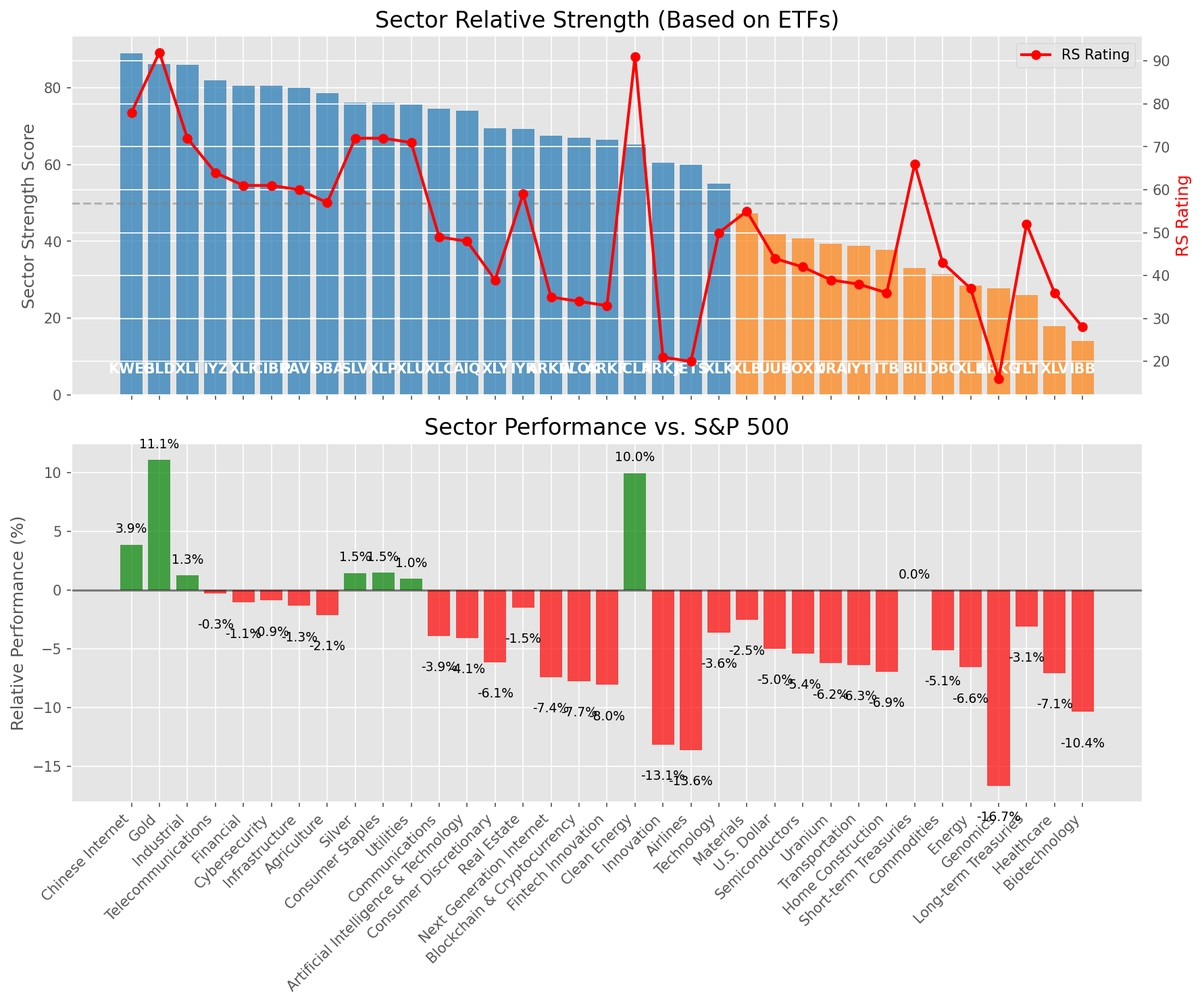
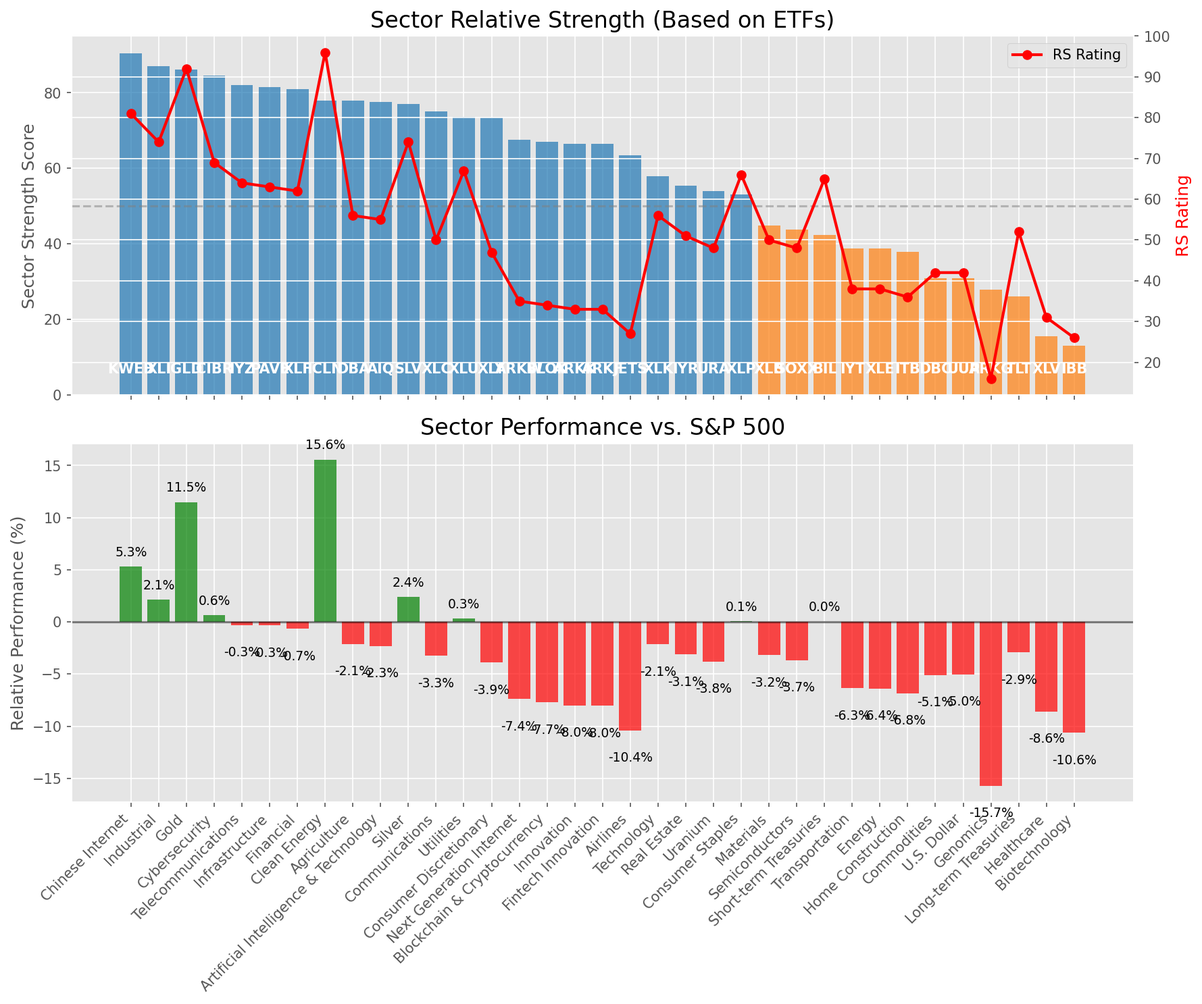
Add market report for 2025-05-13

diff --git a/oneil_relative_strength_report_2025-05-13.md b/oneil_relative_strength_report_2025-05-13.md
@@ -9,11 +9,11 @@
 | Metric | Value |
 |--------|-------|
 | **Market Valuation** | **Fair Valued** |
-| **Current Ratio** | 9.58 |
+| **Current Ratio** | 9.66 |
 | **Historical Mean** | 9.41 |
 | **Standard Deviation** | 0.51 |
-| **Z-Score (StdDev from Mean)** | -0.27 |
-| **Total Market Cap** | $287.27 trillion |
+| **Z-Score (StdDev from Mean)** | 0.34 |
+| **Total Market Cap** | $289.64 trillion |
 | **GDP** | $29.98 trillion |
 
 ## **Market Insights**
@@ -49,41 +49,41 @@ Based on William O'Neil's Relative Strength Methodology
 
 | ETF | Strength | RS Rating | Performance | Above Key MAs | Trend | Sector |
 |-----|----------|-----------|-------------|--------------|-------|--------|
-| [KWEB](https://www.tradingview.com/chart/?symbol=KWEB) | 89.0 | 78.0 | 3.89% | 10d ✓, 50d ✓, 200d ✓ | ↗ | Chinese Internet |
-| [GLD](https://www.tradingview.com/chart/?symbol=GLD) | 86.1 | 92.0 | 11.11% | 10d ✗, 50d ✓, 200d ✓ | ↗ | Gold |
-| [XLI](https://www.tradingview.com/chart/?symbol=XLI) | 86.0 | 72.0 | 1.26% | 10d ✓, 50d ✓, 200d ✓ | ↗ | Industrial |
+| [KWEB](https://www.tradingview.com/chart/?symbol=KWEB) | 90.5 | 81.0 | 5.30% | 10d ✓, 50d ✓, 200d ✓ | ↗ | Chinese Internet |
+| [XLI](https://www.tradingview.com/chart/?symbol=XLI) | 87.0 | 74.0 | 2.12% | 10d ✓, 50d ✓, 200d ✓ | ↗ | Industrial |
+| [GLD](https://www.tradingview.com/chart/?symbol=GLD) | 86.1 | 92.0 | 11.48% | 10d ✗, 50d ✓, 200d ✓ | ↗ | Gold |
+| [CIBR](https://www.tradingview.com/chart/?symbol=CIBR) | 84.5 | 69.0 | 0.63% | 10d ✓, 50d ✓, 200d ✓ | ↗ | Cybersecurity |
 | [IYZ](https://www.tradingview.com/chart/?symbol=IYZ) | 82.0 | 64.0 | -0.29% | 10d ✓, 50d ✓, 200d ✓ | ↗ | Telecommunications |
-| [XLF](https://www.tradingview.com/chart/?symbol=XLF) | 80.5 | 61.0 | -1.05% | 10d ✓, 50d ✓, 200d ✓ | ↗ | Financial |
-| [CIBR](https://www.tradingview.com/chart/?symbol=CIBR) | 80.5 | 61.0 | -0.86% | 10d ✓, 50d ✓, 200d ✓ | ↗ | Cybersecurity |
-| [PAVE](https://www.tradingview.com/chart/?symbol=PAVE) | 80.0 | 60.0 | -1.33% | 10d ✓, 50d ✓, 200d ✓ | ↗ | Infrastructure |
-| [DBA](https://www.tradingview.com/chart/?symbol=DBA) | 78.5 | 57.0 | -2.10% | 10d ✓, 50d ✓, 200d ✓ | ↗ | Agriculture |
-| [SLV](https://www.tradingview.com/chart/?symbol=SLV) | 76.1 | 72.0 | 1.47% | 10d ✓, 50d ✗, 200d ✓ | ↗ | Silver |
-| [XLP](https://www.tradingview.com/chart/?symbol=XLP) | 76.1 | 72.0 | 1.49% | 10d ✗, 50d ✓, 200d ✓ | ↗ | Consumer Staples |
-| [XLU](https://www.tradingview.com/chart/?symbol=XLU) | 75.6 | 71.0 | 0.97% | 10d ✗, 50d ✓, 200d ✓ | ↗ | Utilities |
-| [XLC](https://www.tradingview.com/chart/?symbol=XLC) | 74.5 | 49.0 | -3.88% | 10d ✓, 50d ✓, 200d ✓ | ↗ | Communications |
-| [AIQ](https://www.tradingview.com/chart/?symbol=AIQ) | 74.0 | 48.0 | -4.06% | 10d ✓, 50d ✓, 200d ✓ | ↗ | Artificial Intelligence & Technology |
-| [XLY](https://www.tradingview.com/chart/?symbol=XLY) | 69.5 | 39.0 | -6.13% | 10d ✓, 50d ✓, 200d ✓ | ↗ | Consumer Discretionary |
-| [IYR](https://www.tradingview.com/chart/?symbol=IYR) | 69.3 | 59.0 | -1.47% | 10d ✓, 50d ✓, 200d ✗ | ↗ | Real Estate |
+| [PAVE](https://www.tradingview.com/chart/?symbol=PAVE) | 81.5 | 63.0 | -0.33% | 10d ✓, 50d ✓, 200d ✓ | ↗ | Infrastructure |
+| [XLF](https://www.tradingview.com/chart/?symbol=XLF) | 81.0 | 62.0 | -0.67% | 10d ✓, 50d ✓, 200d ✓ | ↗ | Financial |
+| [ICLN](https://www.tradingview.com/chart/?symbol=ICLN) | 78.0 | 96.0 | 15.56% | 10d ✓, 50d ✓, 200d ✓ | ↘ | Clean Energy |
+| [DBA](https://www.tradingview.com/chart/?symbol=DBA) | 78.0 | 56.0 | -2.10% | 10d ✓, 50d ✓, 200d ✓ | ↗ | Agriculture |
+| [AIQ](https://www.tradingview.com/chart/?symbol=AIQ) | 77.5 | 55.0 | -2.29% | 10d ✓, 50d ✓, 200d ✓ | ↗ | Artificial Intelligence & Technology |
+| [SLV](https://www.tradingview.com/chart/?symbol=SLV) | 77.1 | 74.0 | 2.39% | 10d ✓, 50d ✗, 200d ✓ | ↗ | Silver |
+| [XLC](https://www.tradingview.com/chart/?symbol=XLC) | 75.0 | 50.0 | -3.26% | 10d ✓, 50d ✓, 200d ✓ | ↗ | Communications |
+| [XLU](https://www.tradingview.com/chart/?symbol=XLU) | 73.6 | 67.0 | 0.33% | 10d ✗, 50d ✓, 200d ✓ | ↗ | Utilities |
+| [XLY](https://www.tradingview.com/chart/?symbol=XLY) | 73.5 | 47.0 | -3.90% | 10d ✓, 50d ✓, 200d ✓ | ↗ | Consumer Discretionary |
 | [ARKW](https://www.tradingview.com/chart/?symbol=ARKW) | 67.5 | 35.0 | -7.39% | 10d ✓, 50d ✓, 200d ✓ | ↗ | Next Generation Internet |
 | [BLOK](https://www.tradingview.com/chart/?symbol=BLOK) | 67.0 | 34.0 | -7.72% | 10d ✓, 50d ✓, 200d ✓ | ↗ | Blockchain & Cryptocurrency |
+| [ARKK](https://www.tradingview.com/chart/?symbol=ARKK) | 66.5 | 33.0 | -8.00% | 10d ✓, 50d ✓, 200d ✓ | ↗ | Innovation |
 | [ARKF](https://www.tradingview.com/chart/?symbol=ARKF) | 66.5 | 33.0 | -8.05% | 10d ✓, 50d ✓, 200d ✓ | ↗ | Fintech Innovation |
-| [ICLN](https://www.tradingview.com/chart/?symbol=ICLN) | 65.3 | 91.0 | 9.97% | 10d ✓, 50d ✓, 200d ✗ | ↘ | Clean Energy |
-| [ARKK](https://www.tradingview.com/chart/?symbol=ARKK) | 60.5 | 21.0 | -13.14% | 10d ✓, 50d ✓, 200d ✓ | ↗ | Innovation |
-| [JETS](https://www.tradingview.com/chart/?symbol=JETS) | 60.0 | 20.0 | -13.60% | 10d ✓, 50d ✓, 200d ✓ | ↗ | Airlines |
-| [XLK](https://www.tradingview.com/chart/?symbol=XLK) | 55.0 | 50.0 | -3.61% | 10d ✓, 50d ✓, 200d ✓ | ↘ | Technology |
-| [XLB](https://www.tradingview.com/chart/?symbol=XLB) | 47.3 | 55.0 | -2.50% | 10d ✓, 50d ✓, 200d ✗ | ↘ | Materials |
-| [UUP](https://www.tradingview.com/chart/?symbol=UUP) | 41.8 | 44.0 | -4.98% | 10d ✓, 50d ✓, 200d ✗ | ↘ | U.S. Dollar |
-| [SOXX](https://www.tradingview.com/chart/?symbol=SOXX) | 40.8 | 42.0 | -5.38% | 10d ✓, 50d ✓, 200d ✗ | ↘ | Semiconductors |
-| [URA](https://www.tradingview.com/chart/?symbol=URA) | 39.3 | 39.0 | -6.22% | 10d ✓, 50d ✓, 200d ✗ | ↘ | Uranium |
+| [JETS](https://www.tradingview.com/chart/?symbol=JETS) | 63.5 | 27.0 | -10.41% | 10d ✓, 50d ✓, 200d ✓ | ↗ | Airlines |
+| [XLK](https://www.tradingview.com/chart/?symbol=XLK) | 58.0 | 56.0 | -2.14% | 10d ✓, 50d ✓, 200d ✓ | ↘ | Technology |
+| [IYR](https://www.tradingview.com/chart/?symbol=IYR) | 55.4 | 51.0 | -3.13% | 10d ✗, 50d ✓, 200d ✗ | ↗ | Real Estate |
+| [URA](https://www.tradingview.com/chart/?symbol=URA) | 54.0 | 48.0 | -3.79% | 10d ✓, 50d ✓, 200d ✓ | ↘ | Uranium |
+| [XLP](https://www.tradingview.com/chart/?symbol=XLP) | 53.0 | 66.0 | 0.06% | 10d ✗, 50d ✗, 200d ✗ | ↗ | Consumer Staples |
+| [XLB](https://www.tradingview.com/chart/?symbol=XLB) | 44.8 | 50.0 | -3.20% | 10d ✓, 50d ✓, 200d ✗ | ↘ | Materials |
+| [SOXX](https://www.tradingview.com/chart/?symbol=SOXX) | 43.8 | 48.0 | -3.66% | 10d ✓, 50d ✓, 200d ✗ | ↘ | Semiconductors |
+| [BIL](https://www.tradingview.com/chart/?symbol=BIL) | 42.4 | 65.0 | 0.02% | 10d ✓, 50d ✗, 200d ✗ | ↘ | Short-term Treasuries |
 | [IYT](https://www.tradingview.com/chart/?symbol=IYT) | 38.8 | 38.0 | -6.35% | 10d ✓, 50d ✓, 200d ✗ | ↘ | Transportation |
-| [ITB](https://www.tradingview.com/chart/?symbol=ITB) | 37.8 | 36.0 | -6.93% | 10d ✓, 50d ✓, 200d ✗ | ↘ | Home Construction |
-| [BIL](https://www.tradingview.com/chart/?symbol=BIL) | 33.0 | 66.0 | 0.02% | 10d ✗, 50d ✗, 200d ✗ | ↘ | Short-term Treasuries |
-| [DBC](https://www.tradingview.com/chart/?symbol=DBC) | 31.4 | 43.0 | -5.09% | 10d ✓, 50d ✗, 200d ✗ | ↘ | Commodities |
-| [XLE](https://www.tradingview.com/chart/?symbol=XLE) | 28.4 | 37.0 | -6.55% | 10d ✓, 50d ✗, 200d ✗ | ↘ | Energy |
-| [ARKG](https://www.tradingview.com/chart/?symbol=ARKG) | 27.8 | 16.0 | -16.65% | 10d ✓, 50d ✓, 200d ✗ | ↘ | Genomics |
-| [TLT](https://www.tradingview.com/chart/?symbol=TLT) | 26.0 | 52.0 | -3.10% | 10d ✗, 50d ✗, 200d ✗ | ↘ | Long-term Treasuries |
-| [XLV](https://www.tradingview.com/chart/?symbol=XLV) | 18.0 | 36.0 | -7.07% | 10d ✗, 50d ✗, 200d ✗ | ↘ | Healthcare |
-| [IBB](https://www.tradingview.com/chart/?symbol=IBB) | 14.0 | 28.0 | -10.36% | 10d ✗, 50d ✗, 200d ✗ | ↘ | Biotechnology |
+| [XLE](https://www.tradingview.com/chart/?symbol=XLE) | 38.8 | 38.0 | -6.38% | 10d ✓, 50d ✓, 200d ✗ | ↘ | Energy |
+| [ITB](https://www.tradingview.com/chart/?symbol=ITB) | 37.8 | 36.0 | -6.85% | 10d ✓, 50d ✓, 200d ✗ | ↘ | Home Construction |
+| [DBC](https://www.tradingview.com/chart/?symbol=DBC) | 30.9 | 42.0 | -5.09% | 10d ✓, 50d ✗, 200d ✗ | ↘ | Commodities |
+| [UUP](https://www.tradingview.com/chart/?symbol=UUP) | 30.9 | 42.0 | -5.03% | 10d ✓, 50d ✗, 200d ✗ | ↘ | U.S. Dollar |
+| [ARKG](https://www.tradingview.com/chart/?symbol=ARKG) | 27.8 | 16.0 | -15.73% | 10d ✓, 50d ✓, 200d ✗ | ↘ | Genomics |
+| [TLT](https://www.tradingview.com/chart/?symbol=TLT) | 26.0 | 52.0 | -2.93% | 10d ✗, 50d ✗, 200d ✗ | ↘ | Long-term Treasuries |
+| [XLV](https://www.tradingview.com/chart/?symbol=XLV) | 15.5 | 31.0 | -8.61% | 10d ✗, 50d ✗, 200d ✗ | ↘ | Healthcare |
+| [IBB](https://www.tradingview.com/chart/?symbol=IBB) | 13.0 | 26.0 | -10.64% | 10d ✗, 50d ✗, 200d ✗ | ↘ | Biotechnology |
 
 ### **Sector ETF Performance Interpretation**
 
@@ -98,152 +98,174 @@ This table shows the relative strength metrics for different market sectors base
 
 ### **Current Sector Leadership**
 
-The current market leadership is coming from the following sectors: **Chinese Internet, Gold, Industrial**.
+The current market leadership is coming from the following sectors: **Chinese Internet, Industrial, Gold**.
 
-The **Chinese Internet** sector (represented by **KWEB**) is showing particularly strong relative strength with an RS rating of 78.0 and performance of 3.89% vs. the S&P 500. This sector is trading above its 10-day, 50-day, 200-day moving average(s). Investors should consider focusing on high RS stocks within these leading sectors for potential outperformance.
+The **Chinese Internet** sector (represented by **KWEB**) is showing particularly strong relative strength with an RS rating of 81.0 and performance of 5.30% vs. the S&P 500. This sector is trading above its 10-day, 50-day, 200-day moving average(s). Investors should consider focusing on high RS stocks within these leading sectors for potential outperformance.
 
 ---
 
 ## **Buy Recommendations**
 
-The following 65 stocks show exceptional relative strength:
+The following 70 stocks show exceptional relative strength:
 
 | RS Rating | Buy Score | Current Price | Chart | Name | Ticker |
 |-----------|-----------|---------------|-------|------|--------|
-| 100 | 100 | $27.49 | [Chart](https://www.tradingview.com/chart/?symbol=DB) | Deutsche Bank Aktiengesellschaft | DB |
-| 100 | 100 | $155.30 | [Chart](https://www.tradingview.com/chart/?symbol=PLMR) | Palomar Holdings, Inc. Common stock | PLMR |
-| 100 | 100 | $19.60 | [Chart](https://www.tradingview.com/chart/?symbol=SPNT) | SiriusPoint Ltd. | SPNT |
-| 100 | 100 | $86.50 | [Chart](https://www.tradingview.com/chart/?symbol=SEZL) | Sezzle Inc. Common Stock | SEZL |
 | 100 | 100 | $171.92 | [Chart](https://www.tradingview.com/chart/?symbol=DAVE) | Dave Inc. Class A Common Stock | DAVE |
-| 100 | 100 | $23.99 | [Chart](https://www.tradingview.com/chart/?symbol=GRND) | Grindr Inc. | GRND |
-| 99 | 100 | $22.82 | [Chart](https://www.tradingview.com/chart/?symbol=CRK) | Comstock Resources, Inc. | CRK |
+| 100 | 100 | $19.60 | [Chart](https://www.tradingview.com/chart/?symbol=SPNT) | SiriusPoint Ltd. | SPNT |
+| 100 | 100 | $27.61 | [Chart](https://www.tradingview.com/chart/?symbol=DB) | Deutsche Bank Aktiengesellschaft | DB |
+| 100 | 100 | $155.30 | [Chart](https://www.tradingview.com/chart/?symbol=PLMR) | Palomar Holdings, Inc. Common stock | PLMR |
+| 100 | 100 | $88.82 | [Chart](https://www.tradingview.com/chart/?symbol=SEZL) | Sezzle Inc. Common Stock | SEZL |
+| 99 | 100 | $23.58 | [Chart](https://www.tradingview.com/chart/?symbol=CRK) | Comstock Resources, Inc. | CRK |
 | 99 | 100 | $47.42 | [Chart](https://www.tradingview.com/chart/?symbol=MRX) | Marex Group plc Ordinary Shares | MRX |
 | 99 | 100 | $152.05 | [Chart](https://www.tradingview.com/chart/?symbol=ROOT) | Root, Inc. Class A Common Stock | ROOT |
-| 99 | 100 | $517.83 | [Chart](https://www.tradingview.com/chart/?symbol=DUOL) | Duolingo, Inc. Class A Common Stock | DUOL |
+| 99 | 100 | $34.53 | [Chart](https://www.tradingview.com/chart/?symbol=AHR) | American Healthcare REIT, Inc. | AHR |
+| 99 | 100 | $405.26 | [Chart](https://www.tradingview.com/chart/?symbol=MSTR) | MicroStrategy Inc | MSTR |
 | 99 | 100 | $70.35 | [Chart](https://www.tradingview.com/chart/?symbol=ULS) | UL Solutions Inc. | ULS |
+| 99 | 100 | $24.14 | [Chart](https://www.tradingview.com/chart/?symbol=GRND) | Grindr Inc. | GRND |
+| 98 | 100 | $158.26 | [Chart](https://www.tradingview.com/chart/?symbol=HWM) | Howmet Aerospace Inc. | HWM |
+| 98 | 100 | $41.09 | [Chart](https://www.tradingview.com/chart/?symbol=DRS) | Leonardo DRS, Inc. Common Stock | DRS |
 | 98 | 100 | $131.89 | [Chart](https://www.tradingview.com/chart/?symbol=ATGE) | Adtalem Global Education Inc. Common Shares | ATGE |
-| 98 | 100 | $156.96 | [Chart](https://www.tradingview.com/chart/?symbol=HWM) | Howmet Aerospace Inc. | HWM |
-| 98 | 100 | $34.75 | [Chart](https://www.tradingview.com/chart/?symbol=AHR) | American Healthcare REIT, Inc. | AHR |
-| 98 | 100 | $404.90 | [Chart](https://www.tradingview.com/chart/?symbol=MSTR) | MicroStrategy Inc | MSTR |
 | 98 | 100 | $131.44 | [Chart](https://www.tradingview.com/chart/?symbol=VSEC) | VSE Corp | VSEC |
+| 97 | 100 | $220.80 | [Chart](https://www.tradingview.com/chart/?symbol=CRS) | Carpenter Technology Corp | CRS |
 | 97 | 100 | $116.93 | [Chart](https://www.tradingview.com/chart/?symbol=EHC) | Encompass Health Corporation Common Stock | EHC |
 | 97 | 100 | $38.20 | [Chart](https://www.tradingview.com/chart/?symbol=PAY) | Paymentus Holdings, Inc. | PAY |
-| 97 | 100 | $40.84 | [Chart](https://www.tradingview.com/chart/?symbol=DRS) | Leonardo DRS, Inc. Common Stock | DRS |
-| 97 | 100 | $30.74 | [Chart](https://www.tradingview.com/chart/?symbol=EUFN) | iShares MSCI Europe Financials ETF | EUFN |
-| 97 | 100 | $148.62 | [Chart](https://www.tradingview.com/chart/?symbol=CAH) | Cardinal Health, Inc. | CAH |
-| 97 | 100 | $34.14 | [Chart](https://www.tradingview.com/chart/?symbol=UTI) | Universal Technical Institute, Inc. | UTI |
-| 96 | 100 | $40.38 | [Chart](https://www.tradingview.com/chart/?symbol=EWG) | iShares MSCI Germany ETF | EWG |
+| 97 | 100 | $30.75 | [Chart](https://www.tradingview.com/chart/?symbol=EUFN) | iShares MSCI Europe Financials ETF | EUFN |
+| 97 | 100 | $72.55 | [Chart](https://www.tradingview.com/chart/?symbol=WRB) | W.R. Berkley Corporation | WRB |
 | 96 | 100 | $28.11 | [Chart](https://www.tradingview.com/chart/?symbol=FMS) | Fresenius Medical Care AG | FMS |
-| 95 | 100 | $216.71 | [Chart](https://www.tradingview.com/chart/?symbol=CRS) | Carpenter Technology Corp | CRS |
-| 95 | 100 | $22.51 | [Chart](https://www.tradingview.com/chart/?symbol=LAUR) | Laureate Education, Inc. Common Stock | LAUR |
-| 95 | 100 | $297.55 | [Chart](https://www.tradingview.com/chart/?symbol=PEN) | Penumbra, Inc. | PEN |
-| 95 | 100 | $33.31 | [Chart](https://www.tradingview.com/chart/?symbol=SLM) | SLM Corporation | SLM |
-| 95 | 100 | $61.79 | [Chart](https://www.tradingview.com/chart/?symbol=CHEF) | The Chef's Warehouse Inc | CHEF |
-| 95 | 100 | $40.87 | [Chart](https://www.tradingview.com/chart/?symbol=AB) | AllianceBernstein Holding, L.P. | AB |
+| 96 | 100 | $150.87 | [Chart](https://www.tradingview.com/chart/?symbol=SE) | Sea Limited American Depositary Shares, each representing one Class A Ordinary Share | SE |
+| 96 | 100 | $33.65 | [Chart](https://www.tradingview.com/chart/?symbol=SLM) | SLM Corporation | SLM |
+| 96 | 100 | $148.96 | [Chart](https://www.tradingview.com/chart/?symbol=CAH) | Cardinal Health, Inc. | CAH |
+| 95 | 100 | $61.16 | [Chart](https://www.tradingview.com/chart/?symbol=HOOD) | Robinhood Markets, Inc. Class A Common Stock | HOOD |
+| 95 | 100 | $87.89 | [Chart](https://www.tradingview.com/chart/?symbol=TGLS) | Tecnoglass Inc. | TGLS |
+| 95 | 100 | $75.62 | [Chart](https://www.tradingview.com/chart/?symbol=RBLX) | Roblox Corporation | RBLX |
+| 95 | 100 | $40.48 | [Chart](https://www.tradingview.com/chart/?symbol=EWG) | iShares MSCI Germany ETF | EWG |
 | 95 | 100 | $48.05 | [Chart](https://www.tradingview.com/chart/?symbol=ERJ) | Embraer S.A. | ERJ |
-| 95 | 100 | $142.45 | [Chart](https://www.tradingview.com/chart/?symbol=SE) | Sea Limited American Depositary Shares, each representing one Class A Ordinary Share | SE |
-| 94 | 100 | $18.19 | [Chart](https://www.tradingview.com/chart/?symbol=AM) | Antero Midstream Corporation Common Stock | AM |
-| 94 | 100 | $73.49 | [Chart](https://www.tradingview.com/chart/?symbol=RBLX) | Roblox Corporation | RBLX |
-| 93 | 100 | $16.70 | [Chart](https://www.tradingview.com/chart/?symbol=BCS) | Barclays PLC | BCS |
+| 94 | 100 | $40.87 | [Chart](https://www.tradingview.com/chart/?symbol=AB) | AllianceBernstein Holding, L.P. | AB |
+| 94 | 100 | $61.79 | [Chart](https://www.tradingview.com/chart/?symbol=CHEF) | The Chef's Warehouse Inc | CHEF |
+| 94 | 100 | $297.55 | [Chart](https://www.tradingview.com/chart/?symbol=PEN) | Penumbra, Inc. | PEN |
+| 94 | 100 | $82.23 | [Chart](https://www.tradingview.com/chart/?symbol=RBRK) | Rubrik, Inc. | RBRK |
+| 94 | 100 | $22.51 | [Chart](https://www.tradingview.com/chart/?symbol=LAUR) | Laureate Education, Inc. Common Stock | LAUR |
+| 93 | 100 | $45.07 | [Chart](https://www.tradingview.com/chart/?symbol=TOST) | Toast, Inc. | TOST |
 | 93 | 100 | $53.18 | [Chart](https://www.tradingview.com/chart/?symbol=EPR) | EPR Properties | EPR |
+| 93 | 100 | $319.28 | [Chart](https://www.tradingview.com/chart/?symbol=PODD) | Insulet Corporation | PODD |
 | 93 | 100 | $119.20 | [Chart](https://www.tradingview.com/chart/?symbol=COOP) | Mr. Cooper Group Inc. Common Stock | COOP |
-| 93 | 100 | $104.17 | [Chart](https://www.tradingview.com/chart/?symbol=RBA) | RB Global, Inc. | RBA |
-| 92 | 100 | $86.76 | [Chart](https://www.tradingview.com/chart/?symbol=TGLS) | Tecnoglass Inc. | TGLS |
-| 92 | 100 | $316.67 | [Chart](https://www.tradingview.com/chart/?symbol=PODD) | Insulet Corporation | PODD |
+| 92 | 100 | $104.17 | [Chart](https://www.tradingview.com/chart/?symbol=RBA) | RB Global, Inc. | RBA |
+| 91 | 100 | $16.88 | [Chart](https://www.tradingview.com/chart/?symbol=BCS) | Barclays PLC | BCS |
 | 90 | 100 | $100.54 | [Chart](https://www.tradingview.com/chart/?symbol=AXS) | Axis Capital Holders Limited | AXS |
-| 89 | 100 | $25.12 | [Chart](https://www.tradingview.com/chart/?symbol=EWS) | iShares MSCI Singapore ETF | EWS |
+| 90 | 100 | $23.37 | [Chart](https://www.tradingview.com/chart/?symbol=SRAD) | Sportradar Group AG Class A Ordinary Shares | SRAD |
+| 89 | 100 | $123.15 | [Chart](https://www.tradingview.com/chart/?symbol=PLTR) | Palantir Technologies Inc. Class A Common Stock | PLTR |
 | 89 | 100 | $94.85 | [Chart](https://www.tradingview.com/chart/?symbol=HEES) | H&E Equipment Services, Inc. | HEES |
-| 89 | 100 | $67.96 | [Chart](https://www.tradingview.com/chart/?symbol=CTVA) | Corteva, Inc. Common Stock | CTVA |
+| 88 | 100 | $25.01 | [Chart](https://www.tradingview.com/chart/?symbol=EWS) | iShares MSCI Singapore ETF | EWS |
 | 88 | 100 | $195.73 | [Chart](https://www.tradingview.com/chart/?symbol=LOPE) | Grand Canyon Education, Inc | LOPE |
 | 89 | 99 | $31.08 | [Chart](https://www.tradingview.com/chart/?symbol=PRDO) | Perdoceo Education Corporation | PRDO |
-| 87 | 99 | $58.24 | [Chart](https://www.tradingview.com/chart/?symbol=HSBC) | HSBC Holdings PLC | HSBC |
-| 87 | 97 | $13.30 | [Chart](https://www.tradingview.com/chart/?symbol=CNH) | CNH INDUSTRIAL N.V. | CNH |
-| 86 | 96 | $36.04 | [Chart](https://www.tradingview.com/chart/?symbol=FXI) | iShares China Large-Cap ETF | FXI |
+| 88 | 98 | $69.66 | [Chart](https://www.tradingview.com/chart/?symbol=BROS) | Dutch Bros Inc. | BROS |
+| 87 | 98 | $68.12 | [Chart](https://www.tradingview.com/chart/?symbol=CTVA) | Corteva, Inc. Common Stock | CTVA |
+| 86 | 98 | $208.37 | [Chart](https://www.tradingview.com/chart/?symbol=DRI) | Darden Restaurants, Inc. | DRI |
+| 87 | 97 | $13.25 | [Chart](https://www.tradingview.com/chart/?symbol=CNH) | CNH INDUSTRIAL N.V. | CNH |
+| 86 | 97 | $291.34 | [Chart](https://www.tradingview.com/chart/?symbol=CVNA) | Carvana Co. | CVNA |
+| 85 | 97 | $58.48 | [Chart](https://www.tradingview.com/chart/?symbol=HSBC) | HSBC Holdings PLC | HSBC |
+| 87 | 96 | $58.48 | [Chart](https://www.tradingview.com/chart/?symbol=IBIT) | iShares Bitcoin Trust ETF | IBIT |
+| 85 | 96 | $74.41 | [Chart](https://www.tradingview.com/chart/?symbol=USFD) | US Foods Holding Corp. | USFD |
 | 85 | 96 | $203.25 | [Chart](https://www.tradingview.com/chart/?symbol=BAP) | Credicorp LTD | BAP |
+| 84 | 96 | $712.28 | [Chart](https://www.tradingview.com/chart/?symbol=AXON) | Axon Enterprise, Inc. Common Stock | AXON |
+| 85 | 95 | $35.66 | [Chart](https://www.tradingview.com/chart/?symbol=FXI) | iShares China Large-Cap ETF | FXI |
 | 84 | 95 | $29.67 | [Chart](https://www.tradingview.com/chart/?symbol=ATAT) | Atour Lifestyle Holdings Limited American Depositary Shares | ATAT |
-| 81 | 94 | $45.45 | [Chart](https://www.tradingview.com/chart/?symbol=QFIN) | Qifu Technology, Inc. American Depositary Shares | QFIN |
+| 84 | 95 | $222.65 | [Chart](https://www.tradingview.com/chart/?symbol=GE) | GE Aerospace | GE |
 | 81 | 94 | $217.54 | [Chart](https://www.tradingview.com/chart/?symbol=IDCC) | InterDigital, Inc. | IDCC |
-| 84 | 93 | $95.28 | [Chart](https://www.tradingview.com/chart/?symbol=JCI) | Johnson Controls International plc | JCI |
-| 82 | 93 | $165.64 | [Chart](https://www.tradingview.com/chart/?symbol=ITA) | iShares U.S. Aerospace & Defense ETF | ITA |
+| 82 | 93 | $31.08 | [Chart](https://www.tradingview.com/chart/?symbol=AS) | Amer Sports, Inc. | AS |
+| 82 | 92 | $62.00 | [Chart](https://www.tradingview.com/chart/?symbol=GGAL) | Grupo Financiero Galicia SA | GGAL |
+| 81 | 92 | $165.64 | [Chart](https://www.tradingview.com/chart/?symbol=ITA) | iShares U.S. Aerospace & Defense ETF | ITA |
 | 81 | 92 | $25.06 | [Chart](https://www.tradingview.com/chart/?symbol=PRVA) | Privia Health Group, Inc. Common Stock | PRVA |
-| 80 | 92 | $82.66 | [Chart](https://www.tradingview.com/chart/?symbol=TPR) | Tapestry, Inc. Common Stock | TPR |
-| 81 | 91 | $69.86 | [Chart](https://www.tradingview.com/chart/?symbol=BROS) | Dutch Bros Inc. | BROS |
-| 80 | 91 | $73.54 | [Chart](https://www.tradingview.com/chart/?symbol=USFD) | US Foods Holding Corp. | USFD |
-| 80 | 91 | $279.62 | [Chart](https://www.tradingview.com/chart/?symbol=CVNA) | Carvana Co. | CVNA |
-| 81 | 90 | $28.95 | [Chart](https://www.tradingview.com/chart/?symbol=TGS) | Transportadora de Gas del Sur S.A. ADS | TGS |
-| 80 | 90 | $12.94 | [Chart](https://www.tradingview.com/chart/?symbol=MUFG) | Mitsubishi UFJ Financial Group, Inc. | MUFG |
-| 80 | 90 | $83.08 | [Chart](https://www.tradingview.com/chart/?symbol=CASH) | Pathward Financial, Inc. Common Stock | CASH |
-| 80 | 89 | $57.88 | [Chart](https://www.tradingview.com/chart/?symbol=IBIT) | iShares Bitcoin Trust ETF | IBIT |
+| 81 | 91 | $13.04 | [Chart](https://www.tradingview.com/chart/?symbol=MUFG) | Mitsubishi UFJ Financial Group, Inc. | MUFG |
+| 80 | 91 | $203.86 | [Chart](https://www.tradingview.com/chart/?symbol=DFS) | Discover Financial Services | DFS |
 | 80 | 89 | $28.82 | [Chart](https://www.tradingview.com/chart/?symbol=HODL) | VanEck Bitcoin ETF | HODL |
+| 80 | 89 | $28.95 | [Chart](https://www.tradingview.com/chart/?symbol=TGS) | Transportadora de Gas del Sur S.A. ADS | TGS |
 
 ---
 
 
 ## **Sell Recommendations**
 
-The following 59 stocks show deteriorating relative strength:
+The following 76 stocks show deteriorating relative strength:
 
 | RS Rating | Sell Score | Current Price | Chart | Name | Ticker |
 |-----------|------------|---------------|-------|------|--------|
 | 1 | 100 | $10.18 | [Chart](https://www.tradingview.com/chart/?symbol=NRIX) | Nurix Therapeutics, Inc. Common stock | NRIX |
-| 1 | 100 | $20.56 | [Chart](https://www.tradingview.com/chart/?symbol=BHVN) | Biohaven Ltd. | BHVN |
-| 2 | 100 | $14.01 | [Chart](https://www.tradingview.com/chart/?symbol=DQ) | Daqo New Energy Corp. American Depositary Shares (each representing 5 Ordinary Shares) | DQ |
+| 1 | 100 | $19.72 | [Chart](https://www.tradingview.com/chart/?symbol=BHVN) | Biohaven Ltd. | BHVN |
+| 3 | 100 | $10.49 | [Chart](https://www.tradingview.com/chart/?symbol=LSPD) | Lightspeed Commerce Inc. | LSPD |
 | 3 | 100 | $29.56 | [Chart](https://www.tradingview.com/chart/?symbol=CRTO) | Criteo S.A. | CRTO |
 | 3 | 100 | $13.07 | [Chart](https://www.tradingview.com/chart/?symbol=MNRO) | Monro, Inc. Common Stock | MNRO |
-| 3 | 100 | $10.49 | [Chart](https://www.tradingview.com/chart/?symbol=LSPD) | Lightspeed Commerce Inc. | LSPD |
-| 4 | 100 | $11.59 | [Chart](https://www.tradingview.com/chart/?symbol=ARCT) | Arcturus Therapeutics Holdings Inc. Common Stock | ARCT |
+| 4 | 100 | $31.94 | [Chart](https://www.tradingview.com/chart/?symbol=TWST) | Twist Bioscience Corporation Common Stock | TWST |
+| 4 | 100 | $13.46 | [Chart](https://www.tradingview.com/chart/?symbol=FL) | Foot Locker, Inc. | FL |
+| 5 | 100 | $33.70 | [Chart](https://www.tradingview.com/chart/?symbol=AAP) | ADVANCE AUTO PARTS INC | AAP |
+| 5 | 100 | $12.63 | [Chart](https://www.tradingview.com/chart/?symbol=LBRT) | Liberty Energy Inc. | LBRT |
 | 5 | 100 | $28.01 | [Chart](https://www.tradingview.com/chart/?symbol=SRDX) | Surmodics, Inc. Common Stock | SRDX |
-| 5 | 100 | $13.28 | [Chart](https://www.tradingview.com/chart/?symbol=FL) | Foot Locker, Inc. | FL |
-| 6 | 100 | $15.97 | [Chart](https://www.tradingview.com/chart/?symbol=PENN) | PENN Entertainment, Inc. Common Stock | PENN |
-| 7 | 100 | $33.38 | [Chart](https://www.tradingview.com/chart/?symbol=AAP) | ADVANCE AUTO PARTS INC | AAP |
-| 8 | 100 | $129.24 | [Chart](https://www.tradingview.com/chart/?symbol=TFX) | Teleflex Incorporated | TFX |
-| 8 | 100 | $14.55 | [Chart](https://www.tradingview.com/chart/?symbol=IMVT) | Immunovant, Inc. Common Stock | IMVT |
-| 9 | 100 | $32.13 | [Chart](https://www.tradingview.com/chart/?symbol=CYTK) | Cytokinetics Inc. | CYTK |
-| 9 | 100 | $11.34 | [Chart](https://www.tradingview.com/chart/?symbol=HPK) | HighPeak Energy, Inc. Common Stock | HPK |
-| 11 | 100 | $33.52 | [Chart](https://www.tradingview.com/chart/?symbol=SMCI) | Super Micro Computer, Inc. Common Stock | SMCI |
-| 13 | 100 | $48.19 | [Chart](https://www.tradingview.com/chart/?symbol=RHI) | Robert Half Inc. | RHI |
-| 16 | 100 | $10.34 | [Chart](https://www.tradingview.com/chart/?symbol=CMRE) | Costamare Inc. | CMRE |
-| 20 | 100 | $97.63 | [Chart](https://www.tradingview.com/chart/?symbol=CHRD) | Chord Energy Corporation Common Stock | CHRD |
+| 7 | 100 | $13.08 | [Chart](https://www.tradingview.com/chart/?symbol=ARCT) | Arcturus Therapeutics Holdings Inc. Common Stock | ARCT |
+| 7 | 100 | $31.06 | [Chart](https://www.tradingview.com/chart/?symbol=CYTK) | Cytokinetics Inc. | CYTK |
+| 7 | 100 | $129.24 | [Chart](https://www.tradingview.com/chart/?symbol=TFX) | Teleflex Incorporated | TFX |
+| 7 | 100 | $14.55 | [Chart](https://www.tradingview.com/chart/?symbol=IMVT) | Immunovant, Inc. Common Stock | IMVT |
+| 8 | 100 | $11.34 | [Chart](https://www.tradingview.com/chart/?symbol=HPK) | HighPeak Energy, Inc. Common Stock | HPK |
+| 12 | 100 | $48.19 | [Chart](https://www.tradingview.com/chart/?symbol=RHI) | Robert Half Inc. | RHI |
+| 15 | 100 | $10.34 | [Chart](https://www.tradingview.com/chart/?symbol=CMRE) | Costamare Inc. | CMRE |
+| 18 | 100 | $19.86 | [Chart](https://www.tradingview.com/chart/?symbol=NVDS) | Investment Managers Series Trust II Tradr 1.5X Short NVDA Daily ETF | NVDS |
+| 19 | 100 | $97.63 | [Chart](https://www.tradingview.com/chart/?symbol=CHRD) | Chord Energy Corporation Common Stock | CHRD |
 | 20 | 100 | $13.12 | [Chart](https://www.tradingview.com/chart/?symbol=MED) | Medifast, Inc. | MED |
-| 6 | 98 | $26.49 | [Chart](https://www.tradingview.com/chart/?symbol=TRN) | Trinity Industries, Inc. | TRN |
-| 6 | 97 | $10.31 | [Chart](https://www.tradingview.com/chart/?symbol=VREX) | Varex Imaging Corporation Common Stock | VREX |
-| 11 | 97 | $10.03 | [Chart](https://www.tradingview.com/chart/?symbol=MTAL) | MAC Copper Limited | MTAL |
+| 5 | 99 | $26.49 | [Chart](https://www.tradingview.com/chart/?symbol=TRN) | Trinity Industries, Inc. | TRN |
+| 5 | 98 | $15.13 | [Chart](https://www.tradingview.com/chart/?symbol=DQ) | Daqo New Energy Corp. American Depositary Shares (each representing 5 Ordinary Shares) | DQ |
+| 5 | 98 | $10.31 | [Chart](https://www.tradingview.com/chart/?symbol=VREX) | Varex Imaging Corporation Common Stock | VREX |
+| 10 | 98 | $10.03 | [Chart](https://www.tradingview.com/chart/?symbol=MTAL) | MAC Copper Limited | MTAL |
+| 18 | 97 | $11.01 | [Chart](https://www.tradingview.com/chart/?symbol=BWLP) | BW LPG Limited | BWLP |
 | 19 | 97 | $29.14 | [Chart](https://www.tradingview.com/chart/?symbol=AGIO) | Agios Pharmaceuticals, Inc. | AGIO |
-| 19 | 96 | $11.01 | [Chart](https://www.tradingview.com/chart/?symbol=BWLP) | BW LPG Limited | BWLP |
-| 9 | 95 | $32.55 | [Chart](https://www.tradingview.com/chart/?symbol=MBIN) | Merchants Bancorp Common Stock | MBIN |
-| 16 | 93 | $51.23 | [Chart](https://www.tradingview.com/chart/?symbol=ERX) | Direxion Daily Energy Bull 2X Shares | ERX |
-| 14 | 92 | $16.30 | [Chart](https://www.tradingview.com/chart/?symbol=CHCT) | Community Healthcare Trust Incorporated Common Stock, $0.01 par value per share | CHCT |
-| 17 | 92 | $13.31 | [Chart](https://www.tradingview.com/chart/?symbol=ZUMZ) | Zumiez Inc. | ZUMZ |
-| 10 | 90 | $54.44 | [Chart](https://www.tradingview.com/chart/?symbol=PRCT) | PROCEPT BioRobotics Corporation Common Stock | PRCT |
-| 11 | 90 | $12.22 | [Chart](https://www.tradingview.com/chart/?symbol=APLE) | Apple Hospitality REIT, Inc. | APLE |
-| 21 | 90 | $35.85 | [Chart](https://www.tradingview.com/chart/?symbol=SLB) | Schlumberger Limited | SLB |
-| 15 | 89 | $83.57 | [Chart](https://www.tradingview.com/chart/?symbol=WHR) | Whirlpool Corp. | WHR |
-| 28 | 89 | $148.80 | [Chart](https://www.tradingview.com/chart/?symbol=MTN) | Vail Resorts, Inc. | MTN |
-| 16 | 87 | $37.15 | [Chart](https://www.tradingview.com/chart/?symbol=TECS) | Direxion Daily Technology Bear 3x Shares | TECS |
+| 8 | 96 | $32.55 | [Chart](https://www.tradingview.com/chart/?symbol=MBIN) | Merchants Bancorp Common Stock | MBIN |
+| 19 | 96 | $35.95 | [Chart](https://www.tradingview.com/chart/?symbol=SLB) | Schlumberger Limited | SLB |
+| 8 | 95 | $10.46 | [Chart](https://www.tradingview.com/chart/?symbol=PEB) | Pebblebrook Hotel Trust | PEB |
+| 11 | 95 | $12.18 | [Chart](https://www.tradingview.com/chart/?symbol=APLE) | Apple Hospitality REIT, Inc. | APLE |
+| 15 | 95 | $52.27 | [Chart](https://www.tradingview.com/chart/?symbol=ERX) | Direxion Daily Energy Bull 2X Shares | ERX |
+| 11 | 94 | $35.38 | [Chart](https://www.tradingview.com/chart/?symbol=TECS) | Direxion Daily Technology Bear 3x Shares | TECS |
+| 11 | 94 | $10.99 | [Chart](https://www.tradingview.com/chart/?symbol=ABR) | Arbor Realty Trust, Inc. | ABR |
+| 13 | 93 | $16.30 | [Chart](https://www.tradingview.com/chart/?symbol=CHCT) | Community Healthcare Trust Incorporated Common Stock, $0.01 par value per share | CHCT |
+| 16 | 93 | $13.31 | [Chart](https://www.tradingview.com/chart/?symbol=ZUMZ) | Zumiez Inc. | ZUMZ |
+| 9 | 91 | $54.44 | [Chart](https://www.tradingview.com/chart/?symbol=PRCT) | PROCEPT BioRobotics Corporation Common Stock | PRCT |
+| 15 | 91 | $21.63 | [Chart](https://www.tradingview.com/chart/?symbol=SIRI) | Sirius XM Holdings,  Inc | SIRI |
+| 20 | 91 | $50.81 | [Chart](https://www.tradingview.com/chart/?symbol=LW) | Lamb Weston Holdings, Inc. | LW |
+| 17 | 90 | $12.12 | [Chart](https://www.tradingview.com/chart/?symbol=WEN) | The Wendy's Company | WEN |
+| 17 | 90 | $84.77 | [Chart](https://www.tradingview.com/chart/?symbol=WHR) | Whirlpool Corp. | WHR |
+| 27 | 90 | $148.80 | [Chart](https://www.tradingview.com/chart/?symbol=MTN) | Vail Resorts, Inc. | MTN |
+| 20 | 86 | $19.55 | [Chart](https://www.tradingview.com/chart/?symbol=AAT) | AMERICAN ASSETS TRUST, INC. | AAT |
 | 21 | 86 | $12.76 | [Chart](https://www.tradingview.com/chart/?symbol=DBO) | Invesco DB Oil Fund | DBO |
-| 21 | 85 | $19.55 | [Chart](https://www.tradingview.com/chart/?symbol=AAT) | AMERICAN ASSETS TRUST, INC. | AAT |
-| 23 | 85 | $51.24 | [Chart](https://www.tradingview.com/chart/?symbol=LW) | Lamb Weston Holdings, Inc. | LW |
-| 22 | 83 | $36.54 | [Chart](https://www.tradingview.com/chart/?symbol=BHE) | Benchmark Electronics | BHE |
-| 35 | 83 | $21.39 | [Chart](https://www.tradingview.com/chart/?symbol=NVDS) | Investment Managers Series Trust II Tradr 1.5X Short NVDA Daily ETF | NVDS |
-| 22 | 82 | $10.54 | [Chart](https://www.tradingview.com/chart/?symbol=AVO) | Mission Produce, Inc. Common Stock | AVO |
-| 35 | 81 | $65.24 | [Chart](https://www.tradingview.com/chart/?symbol=ZROZ) | PIMCO 25+ Year Zero Coupon U.S. Treasury Index Exchange-Traded Fund | ZROZ |
-| 30 | 80 | $20.80 | [Chart](https://www.tradingview.com/chart/?symbol=CSWC) | Capital Southwest Corp | CSWC |
-| 29 | 79 | $27.48 | [Chart](https://www.tradingview.com/chart/?symbol=BNO) | United States Brent Oil Fund, LP | BNO |
-| 28 | 78 | $43.67 | [Chart](https://www.tradingview.com/chart/?symbol=FEPI) | REX FANG & Innovation Equity Premium Income ETF | FEPI |
-| 30 | 78 | $32.38 | [Chart](https://www.tradingview.com/chart/?symbol=LEGN) | Legend Biotech Corporation American Depositary Shares | LEGN |
-| 24 | 77 | $16.42 | [Chart](https://www.tradingview.com/chart/?symbol=QYLD) | Global X Funds Global X NASDAQ-100 Covered Call ETF | QYLD |
-| 31 | 76 | $20.84 | [Chart](https://www.tradingview.com/chart/?symbol=BITI) | ProShares Short Bitcoin ETF | BITI |
+| 23 | 86 | $20.58 | [Chart](https://www.tradingview.com/chart/?symbol=BITI) | ProShares Short Bitcoin ETF | BITI |
+| 21 | 84 | $36.54 | [Chart](https://www.tradingview.com/chart/?symbol=BHE) | Benchmark Electronics | BHE |
+| 21 | 83 | $10.54 | [Chart](https://www.tradingview.com/chart/?symbol=AVO) | Mission Produce, Inc. Common Stock | AVO |
+| 22 | 83 | $14.63 | [Chart](https://www.tradingview.com/chart/?symbol=RYLD) | Global X Russell 2000 Covered Call ETF | RYLD |
+| 34 | 83 | $64.52 | [Chart](https://www.tradingview.com/chart/?symbol=ZROZ) | PIMCO 25+ Year Zero Coupon U.S. Treasury Index Exchange-Traded Fund | ZROZ |
+| 29 | 81 | $20.80 | [Chart](https://www.tradingview.com/chart/?symbol=CSWC) | Capital Southwest Corp | CSWC |
+| 32 | 81 | $236.18 | [Chart](https://www.tradingview.com/chart/?symbol=HUM) | Humana Inc. | HUM |
+| 21 | 80 | $115.30 | [Chart](https://www.tradingview.com/chart/?symbol=EOG) | EOG Resources, Inc. | EOG |
+| 23 | 80 | $16.41 | [Chart](https://www.tradingview.com/chart/?symbol=QYLD) | Global X Funds Global X NASDAQ-100 Covered Call ETF | QYLD |
+| 28 | 80 | $27.48 | [Chart](https://www.tradingview.com/chart/?symbol=BNO) | United States Brent Oil Fund, LP | BNO |
+| 30 | 80 | $53.87 | [Chart](https://www.tradingview.com/chart/?symbol=GIS) | General Mills, Inc. | GIS |
+| 36 | 80 | $31.77 | [Chart](https://www.tradingview.com/chart/?symbol=ZSL) | ProShares UltraShort Silver | ZSL |
+| 27 | 79 | $43.67 | [Chart](https://www.tradingview.com/chart/?symbol=FEPI) | REX FANG & Innovation Equity Premium Income ETF | FEPI |
+| 28 | 79 | $131.00 | [Chart](https://www.tradingview.com/chart/?symbol=PEP) | PepsiCo, Inc. | PEP |
+| 31 | 78 | $14.19 | [Chart](https://www.tradingview.com/chart/?symbol=OCSL) | Oaktree Specialty Lending Corporation | OCSL |
+| 33 | 78 | $31.91 | [Chart](https://www.tradingview.com/chart/?symbol=LEGN) | Legend Biotech Corporation American Depositary Shares | LEGN |
+| 34 | 78 | $135.66 | [Chart](https://www.tradingview.com/chart/?symbol=HES) | Hess Corporation | HES |
+| 39 | 77 | $59.81 | [Chart](https://www.tradingview.com/chart/?symbol=BMRN) | BioMarin Pharmaceuticals Inc | BMRN |
+| 31 | 76 | $14.76 | [Chart](https://www.tradingview.com/chart/?symbol=HR) | Healthcare Realty Trust Incorporated | HR |
 | 29 | 75 | $14.56 | [Chart](https://www.tradingview.com/chart/?symbol=BMEZ) | BlackRock Health Sciences Term Trust | BMEZ |
-| 35 | 75 | $135.21 | [Chart](https://www.tradingview.com/chart/?symbol=HES) | Hess Corporation | HES |
-| 33 | 73 | $13.90 | [Chart](https://www.tradingview.com/chart/?symbol=BSM) | Black Stone Minerals, L.P. | BSM |
-| 33 | 71 | $14.94 | [Chart](https://www.tradingview.com/chart/?symbol=HR) | Healthcare Realty Trust Incorporated | HR |
+| 35 | 75 | $35.23 | [Chart](https://www.tradingview.com/chart/?symbol=CPB) | The Campbell's Company Common Stock | CPB |
+| 32 | 74 | $13.90 | [Chart](https://www.tradingview.com/chart/?symbol=BSM) | Black Stone Minerals, L.P. | BSM |
+| 29 | 73 | $142.08 | [Chart](https://www.tradingview.com/chart/?symbol=CVX) | Chevron Corporation | CVX |
+| 30 | 73 | $55.85 | [Chart](https://www.tradingview.com/chart/?symbol=IYH) | iShares U.S. Healthcare ETF | IYH |
+| 30 | 71 | $12.03 | [Chart](https://www.tradingview.com/chart/?symbol=TWO) | Two Harbors Investment Corp. | TWO |
+| 31 | 71 | $270.73 | [Chart](https://www.tradingview.com/chart/?symbol=AMGN) | Amgen Inc | AMGN |
 | 35 | 69 | $17.80 | [Chart](https://www.tradingview.com/chart/?symbol=MLNK) | MeridianLink, Inc. | MLNK |
 | 36 | 69 | $17.72 | [Chart](https://www.tradingview.com/chart/?symbol=JPMpM) | JPMorgan Chase & Co. Depositary Shares, each representing a 1/400th interest in a share of 4.20% Non-Cumulative Preferred Stock, Series MM | JPMpM |
 | 38 | 69 | $44.91 | [Chart](https://www.tradingview.com/chart/?symbol=IYE) | iShares U.S. Energy ETF | IYE |
-| 37 | 67 | $84.58 | [Chart](https://www.tradingview.com/chart/?symbol=XLE) | Energy Select Sector SPDR Fund | XLE |
+| 35 | 67 | $118.17 | [Chart](https://www.tradingview.com/chart/?symbol=VDE) | Vanguard Energy ETF | VDE |
 | 38 | 67 | $11.27 | [Chart](https://www.tradingview.com/chart/?symbol=MQY) | Blackrock Muni Yield Quality Fund, Inc | MQY |
-| 36 | 66 | $118.17 | [Chart](https://www.tradingview.com/chart/?symbol=VDE) | Vanguard Energy ETF | VDE |
 | 39 | 65 | $36.03 | [Chart](https://www.tradingview.com/chart/?symbol=SQM) | Sociedad Quimica y Minera de Chile SA | SQM |
+| 39 | 65 | $12.01 | [Chart](https://www.tradingview.com/chart/?symbol=NVG) | Nuveen AMT-Free Municipal Credit Income Fund | NVG |
 
 ## **Methodology**
 
